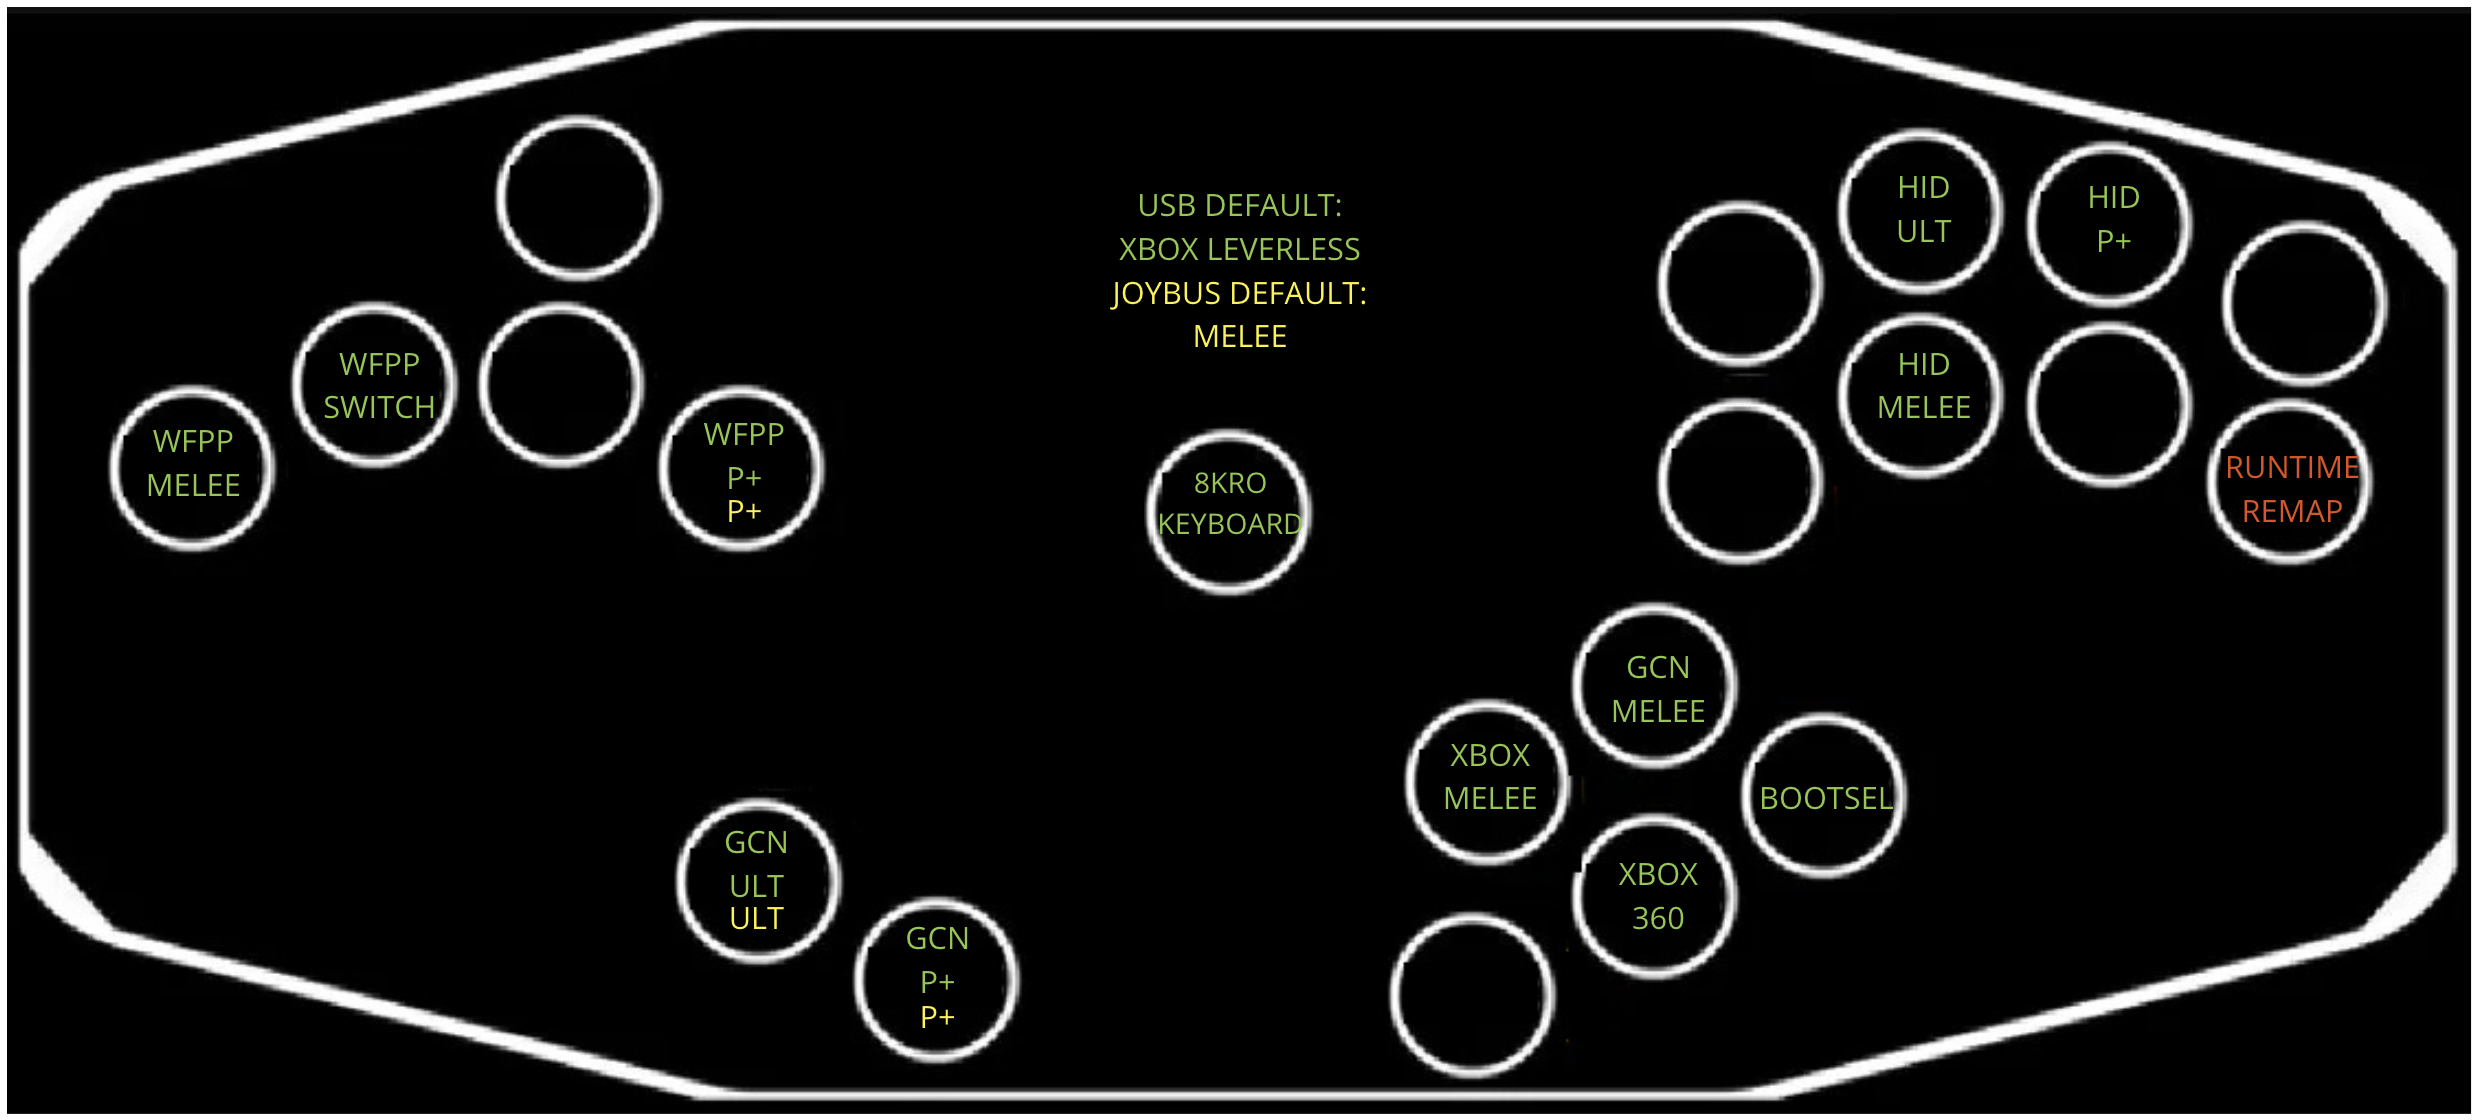
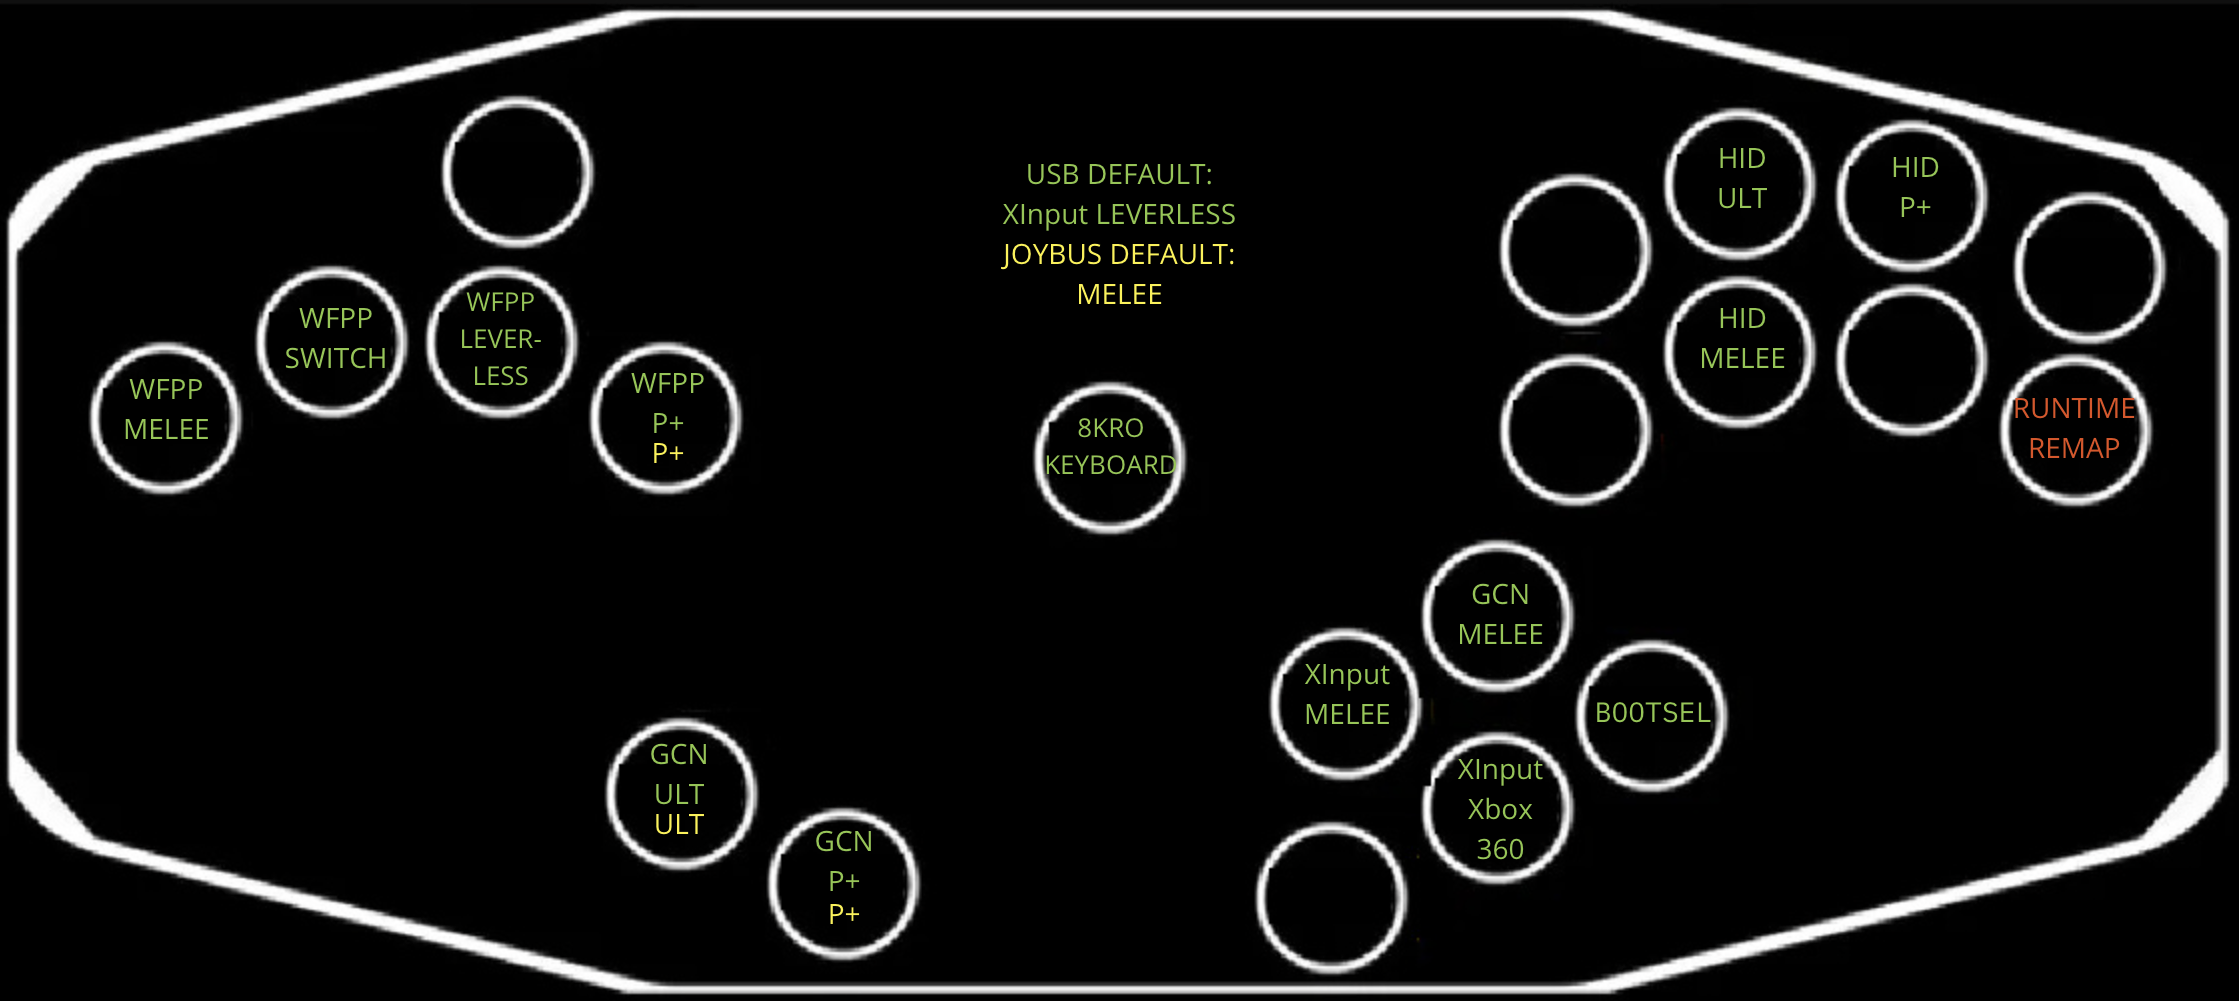
Add Switch Wired Fight Pad Pro Leverless Fightstick Layout Mode (#20)
* Add Nintendo Switch Wireless Fight Pad Pro Leverless Fightstick Mode

Changed region(s): [[0.0, 0.0, 1.0, 1.0], [0.4314, 0.1548, 0.5547, 0.3097], [0.4623, 0.3716, 0.5239, 0.5265]]

diff --git a/src/dac_algorithms/wired_fight_pad_pro_default.cpp b/src/dac_algorithms/wired_fight_pad_pro_default.cpp
@@ -59,5 +59,65 @@ void actuateWFPPReport(GpioToButtonSets::F1::ButtonSet buttonSet) {
     };
 }
 
+// Map face and shoulder buttons to top two rows on right side. We're a fightstick now.
+// Use up2 for up to appease WASD players.
+// Use MY for up to appease Hitbox players.
+// MX and A are Plus and Minus.
+// L is a modifier: L+Start         = Photo, L+Left/Right/Up/Down = Dpad left/right/up/down
+void actuateLeverlessReport (GpioToButtonSets::F1::ButtonSet buttonSet) {
+
+    // Modifier button is L
+    bool mod = buttonSet.l;
+
+    // up -> ZR (you can always have too many ups)
+    bool zr = buttonSet.up;
+
+    // up2 -> up
+    // MY -> up (you can never have too many ups)
+    buttonSet.up = (buttonSet.up2 || buttonSet.my);
+
+    bool left = buttonSet.left && !(mod);
+    bool right = buttonSet.right && !(mod);
+    bool up = buttonSet.up && !(mod);
+    bool down = buttonSet.down && !(mod);
+
+    // Left stick + Modifer button -> D-Pad
+    bool dLeft = buttonSet.left && mod;
+    bool dRight = buttonSet.right && mod;
+    bool dUp = buttonSet.up && mod;
+    bool dDown = buttonSet.down && mod;
+
+    // Start +/- Modifier button -> Home / Photo
+    bool home = buttonSet.start && (!mod);
+    bool photo = buttonSet.start && mod;
+
+    // MX / A -> Minus and Plus
+    bool minus = buttonSet.mx;
+    bool plus = buttonSet.a;
+
+    USBConfigurations::WiredFightPadPro::hidReport = {
+        .y=buttonSet.r,         // R -> Y
+        .b=buttonSet.b,         // B -> B
+        .a=buttonSet.x,         // X -> A
+        .x=buttonSet.y,         // Y -> X
+        .l=buttonSet.ls,        // LS -> L
+        .r=buttonSet.ms,        // MS -> R
+        .zl=buttonSet.z,        // Z -> ZL
+        .zr=zr,                 // Up -> ZR
+        .minus=minus,           // MX -> -
+        .plus=plus,             // A -> +
+        .pad=0,
+        .home=home,             // Start -> Home
+        .photo=photo,           // Start + Modifier button -> Photo
+        .pad2=0,
+        .hat=hatFromDpadValues(dLeft, dRight, dUp, dDown),
+        .xStick=(uint8_t)(left && right ? 128 : left ? 48 : right ? 208 : 128), // Neutral SOCD 
+        .yStick=(uint8_t)(up && down ? 48 : down ? 208 : up ? 48 : 128), // Up overrides down
+        .cxStick=(uint8_t)(buttonSet.cLeft && buttonSet.cRight ? 128 : buttonSet.cLeft ? 48 : buttonSet.cRight ? 208 : 128), // Neutral SOCD
+        .cyStick=(uint8_t)(buttonSet.cUp && buttonSet.cDown ? 48 : buttonSet.cDown ? 208 : buttonSet.cUp ? 48 : 128), // Up overrides down
+        .pad3=0
+    };
+}
+
 }
 }

diff --git a/src/main.cpp b/src/main.cpp
@@ -56,7 +56,7 @@ int main() {
     #endif
     ;
 
-    std::vector<uint8_t> modePins = { 22, 21, 20, 16, 17, 14, 13, 12, 7, 6, 5, 4, 2, keyboardPin }; // DO NOT USE PIN GP15
+    std::vector<uint8_t> modePins = { 22, 21, 20, 16, 17, 14, 13, 12, 7, 6, 5, 4, 3, 2, keyboardPin }; // DO NOT USE PIN GP15
 
     for (uint8_t modePin : modePins) {
         gpio_init(modePin);
@@ -158,6 +158,11 @@ int main() {
     // 6 - GP4 - Left: F1 / wired_fight_pad_pro_default / wired_fight_pad_pro
     if (!gpio_get(4)) USBConfigurations::WiredFightPadPro::enterMode([](){
         DACAlgorithms::WiredFightPadProDefault::actuateWFPPReport(GpioToButtonSets::F1::defaultConversion());
+    });
+
+    // ? - GP3 - Down: F1 / wired_fight_pad_pro_leverless / wired_fight_pad_pro
+    if (!gpio_get(3)) USBConfigurations::WiredFightPadPro::enterMode([](){
+        DACAlgorithms::WiredFightPadProDefault::actuateLeverlessReport(GpioToButtonSets::F1::defaultConversion());
     });
 
     // 0 - 0 - Start: F1 / 8 keys set / 8KRO keyboard

diff --git a/include/dac_algorithms/wired_fight_pad_pro_default.hpp b/include/dac_algorithms/wired_fight_pad_pro_default.hpp
@@ -10,6 +10,8 @@ namespace WiredFightPadProDefault {
 
 void actuateWFPPReport(GpioToButtonSets::F1::ButtonSet buttonSet);
 
+void actuateLeverlessReport(GpioToButtonSets::F1::ButtonSet buttonSet);
+
 }
 }
 #endif

diff --git a/README.md b/README.md
@@ -48,13 +48,14 @@ Hold a specified button while plugging the controller in, and that mode will be 
 
 - Updating Firmware (USB) => `BOOTSEL` (`CRight`)
 - Runtime remapping mode => (`Up`)
-- Playing Melee or. P+ on **console** => Melee + Joybus (`no button`) or P+ + Joybus (`MY`)
+- Playing Melee or P+ on **console** => Melee + Joybus (`no button`) or P+ + Joybus (`MY`)
 - Playing Melee or P+ on PC (USB) => Melee + Adapter (`CUp`) or P+ + Adapter (`MY`)
 - Playing Ultimate on Switch or PC (USB) => Ultimate + Adapter (`MX`)
-- Playing other games on Switch => WFPP + WFPP (`Left`)
+- Playing other games on Switch => WFPP + WFPP (`Left`) or WFPP + Leverless (`Down`)
 - Playing other games on PC => XInput + Leverless (`no button`) or XInput + Xbox360 (`A`) or 8KeysSet + Keyboard (`Start`)
+- Playing other games on PC with DirectInput => WFPP + WFPP (`Left`) or WFPP + Leverless (`Down`)
 - Playing other games on Xbox (requires Brooks Wingman XB) => XInput + Leverless (`no button`) or XInput + Xbox360 (`A`) or XInput + Melee (`CLeft`)
-- Playing other games on PlayStation (requires Brooks Wingman XE) =>  XInput + Leverless (`no button`) or XInput + Xbox360 (`A`) or WFPP + WFPP (`Left`)
+- Playing other games on PlayStation (requires Brooks Wingman XE) =>  XInput + Leverless (`no button`) or XInput + Xbox360 (`A`) or WFPP + WFPP (`Left`) or WFPP + Leverless (`Down`)
 - Playing (non-Smash) platform fighters on Xbox or PC => XInput + Melee (`CLeft`)
 - Playing Melee/P+ on PC on the same setup as someone using a Gamecube controller and therefore an adapter => HID + Melee (`X`) or HID + P+ (`LS`) & configure the HID
 
@@ -90,8 +91,8 @@ There are several things on my roadmap I have yet to implement, in no particular
     * ~Add XInput + Melee layout image.~
     * Add PS4 button layout images (through Brooks Adapter + XInput).
 * Implement `Up2` button across **ALL** modes.
-* Add Nintendo Switch WFPP + Leverless DAC Algorithm/mode for better fighting game compatibility on Switch, a DInput option for PS4/PC compatibility.
-    * Change mod button and mapping as necessary.
+* ~~Add Nintendo Switch WFPP + Leverless DAC Algorithm/mode for better fighting game compatibility on Switch, a DInput option for PS4/PC compatibility.~~
+    * ~Change mod button and mapping as necessary.~
     * ~Add WFPP + Leverless layout image.~
     * Add PS4 button layout images. (through Brooks Adapter + DInput)
 * Refactor and implement all SOCD resolutions on all Melee/P+/Leverless modes (not just Ultimate) when compiling.
@@ -103,8 +104,6 @@ There are several things on my roadmap I have yet to implement, in no particular
 <summary>Fightstick Branch</summary>
 
 * Add all relevant SOCD resolutions for all leverless modes.
-
-</details>
 
 <details>
 

diff --git a/docs/MODES.md b/docs/MODES.md
@@ -1,26 +1,27 @@
 # Modes
 
-As of this release, 12 modes are built-in. There are two additional specialized programming modes.
+As of this release, 13 modes are built-in. There are two additional specialized programming modes.
 
 ![Modes](../img/modes/modes.png)
 
 ## TOC
 
 0. [BOOTSEL](#bootsel)
-0. [REMAP](#run-time-remapping)
+1. [REMAP](#run-time-remapping)
 2. [GCN (Ultimate)](#ultimate)
 3. [GCN (Melee)](#melee)
 4. [GCN (P+)](#p)
 5. [Xbox360 (Leverless)](#xinput-leverless-fightstick)
 6. [Xbox360 (Dedicated)](#xinput-xbox360-controller)
 7. [Xbox360 (Melee)](#xinput-xbox360-controller-melee)
-7. [WFPP (Dedicated)](#wired-fight-pad-pro-nintendo-switch-controller)
-7. [WFPP (Melee)](#wired-fight-pad-pro-melee)
-7. [WFPP (P+)](#wired-fight-pad-pro-p)
-8. [8KRO Keyboard](#8kro-keyboard)
-9. [HID (Ultimate)](#hid-controllers)
-10. [HID (Melee)](#hid-controllers)
-11. [HID (P+)](#hid-controllers)
+8. [WFPP (Dedicated)](#wired-fight-pad-pro-nintendo-switch-controller)
+9. [WFPP (Leverless)](#wired-fight-pad-pro-leverless-fightstick)
+10. [WFPP (Melee)](#wired-fight-pad-pro-melee)
+11. [WFPP (P+)](#wired-fight-pad-pro-p)
+12. [8KRO Keyboard](#8kro-keyboard)
+13. [HID (Ultimate)](#hid-controllers)
+14. [HID (Melee)](#hid-controllers)
+15. [HID (P+)](#hid-controllers)
 
 ## Programming Modes
 
@@ -115,6 +116,19 @@ In dedicated mode, `MX`/`MY` and `LS`/`MS` are repurposed. This means you can on
 
 ![WFPP + WFPP](../img/modes/wfpp_wfpp.png)
 ![WFPP + WFPP (mod)](../img/modes/wfpp_wfpp_mod.png)
+
+#### Wired Fight Pad Pro (Leverless Fightstick)
+
+- `GP3` (by default, `Down`) => Wired Fight Pad Pro with Leverless Fighstick logic (Wired Fight Pad Pro DAC algorithm + Wired Fight Pad Pro Leverless USB configuration).
+
+WFPP can also function as a leverless fightstick, offering a different default button mapping. It still is technically a WFPP, so you have two analog sticks and a d-pad for movement options, and movement is set to the left stick. It doesn't use the "melee-style" layout and is a little easier to remap and play other genres in.
+
+The face buttons are mapped directly to the first four buttons on the right hand, with the L/R triggers on the top two right most buttons, and ZL/ZR shoulders immediately underneath them.
+
+In this scheme you can only access cardinals and diagonals on the control sticks. *`Start`, `MX` and the control stick have additional buttons mapped when combined with `L`.*
+
+![WFPP + Leverless](../img/modes/wfpp_leverless.png)
+![WFPP + Leverless (mod)](../img/modes/wfpp_leverless_mod.png)
 
 #### Wired Fight Pad Pro (Melee)
 

diff --git a/.github/pull_request_template.md b/.github/pull_request_template.md
@@ -19,6 +19,7 @@ Check the boxes for any mode that is affected by your changes. Make sure to note
 - [ ] `Nothing Pressed` - XInput (Leverless Fightstick)
 - [ ] `GP0` - `Start` - 8KRO Keyboard
 - [ ] `GP2` - `Right` - Wired Fight Pad Pro (P+)
+- [ ] `GP3` - `Down` Wired Fight Pad Pro (Leverless Fightstick)
 - [ ] `GP4` - `Left` - Wired Fight Pad Pro (Wired Fight Pad Pro)
 - [ ] `GP5` - `L` - Wired Fight Pad Pro (Melee)
 - [ ] `GP6` - `MX` - Ultimate (Adapter) mode
